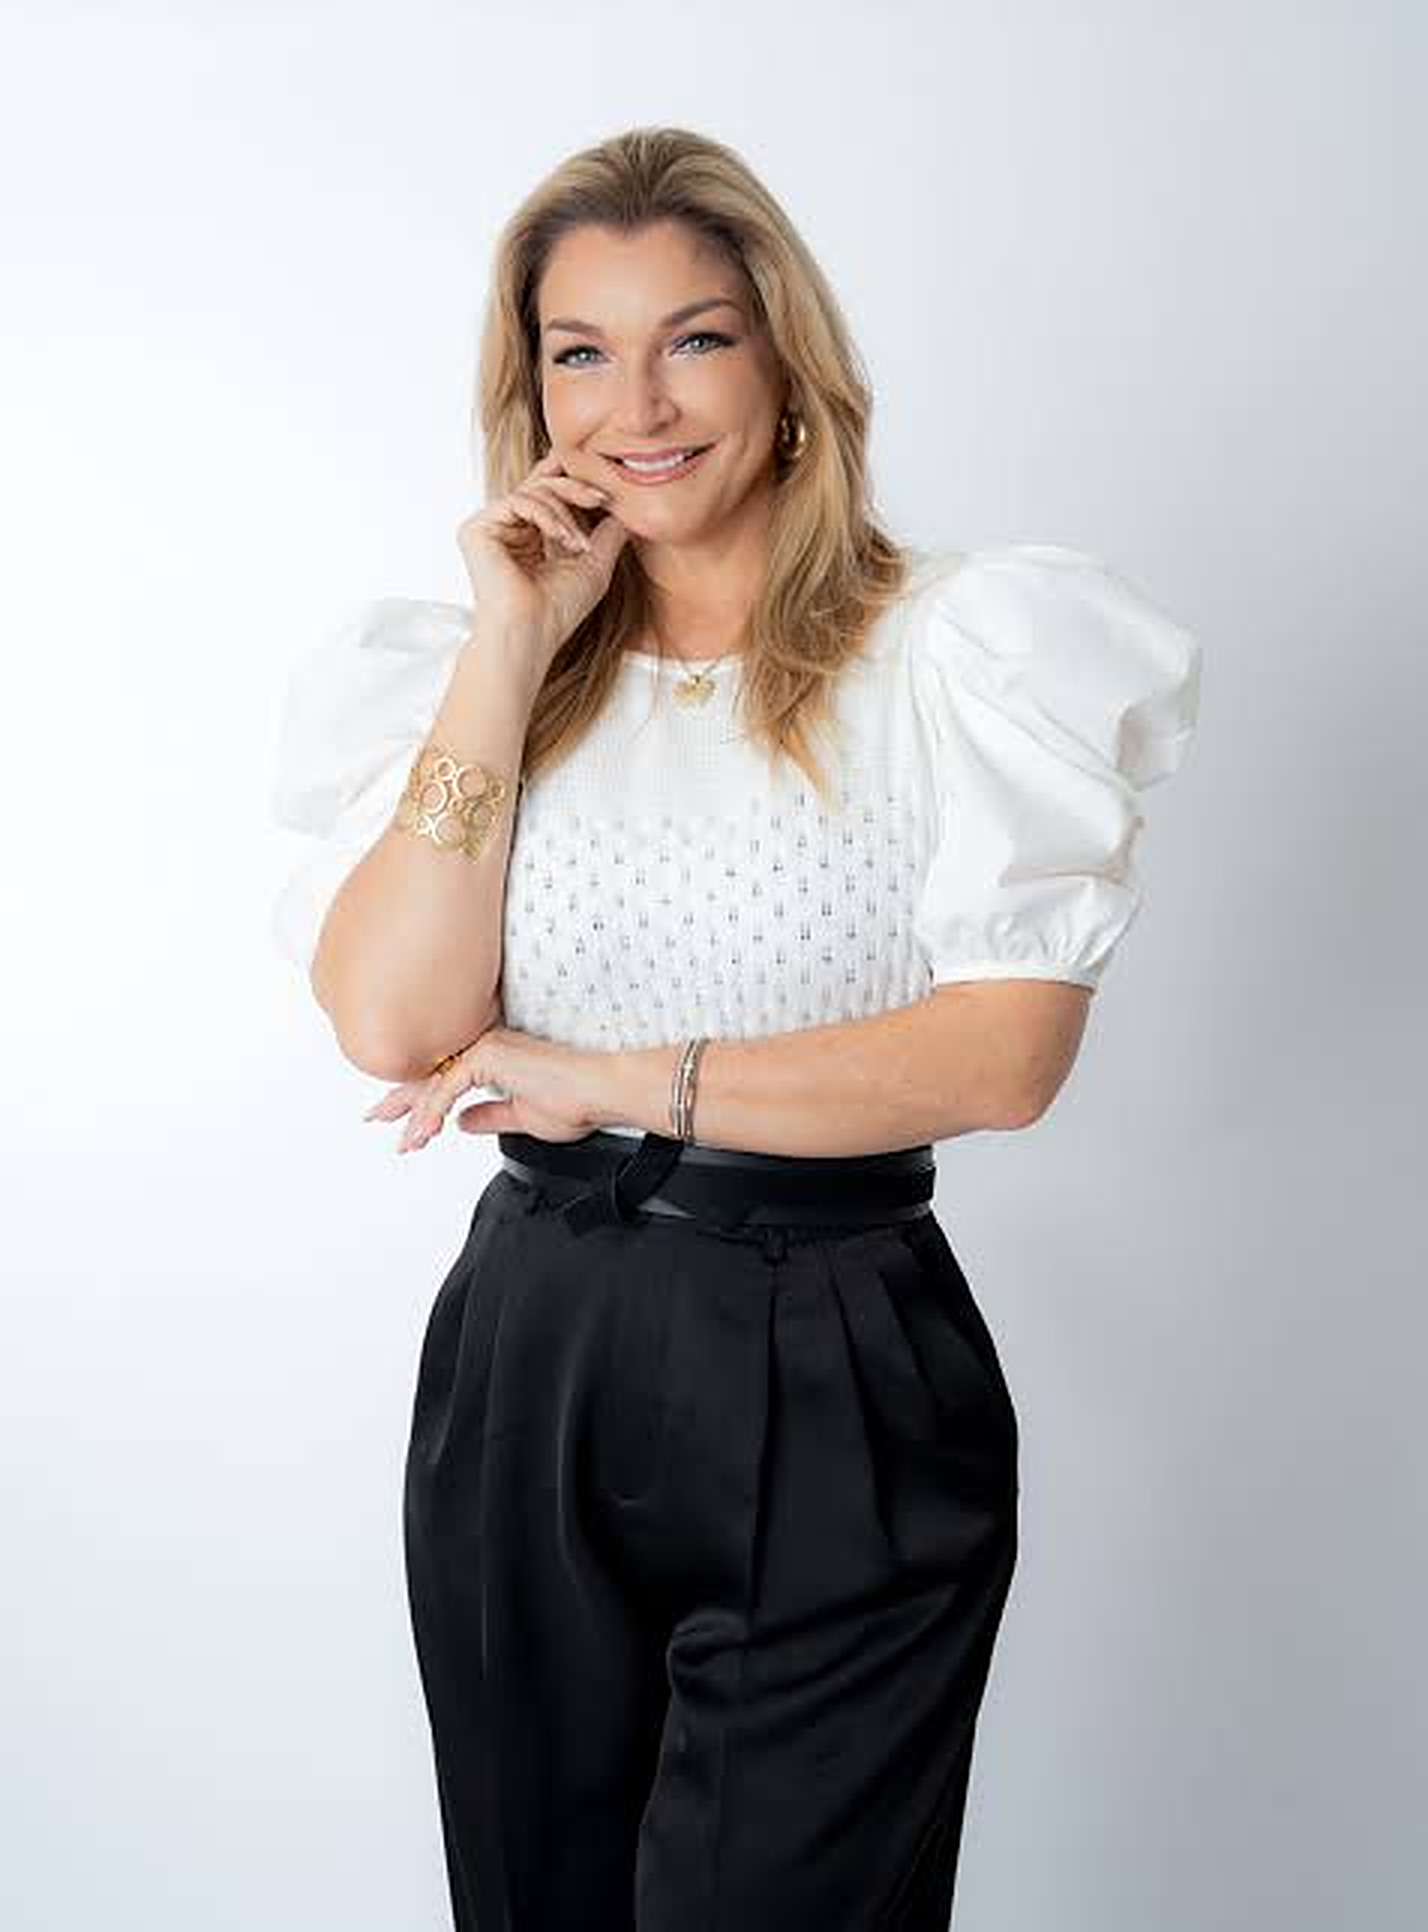
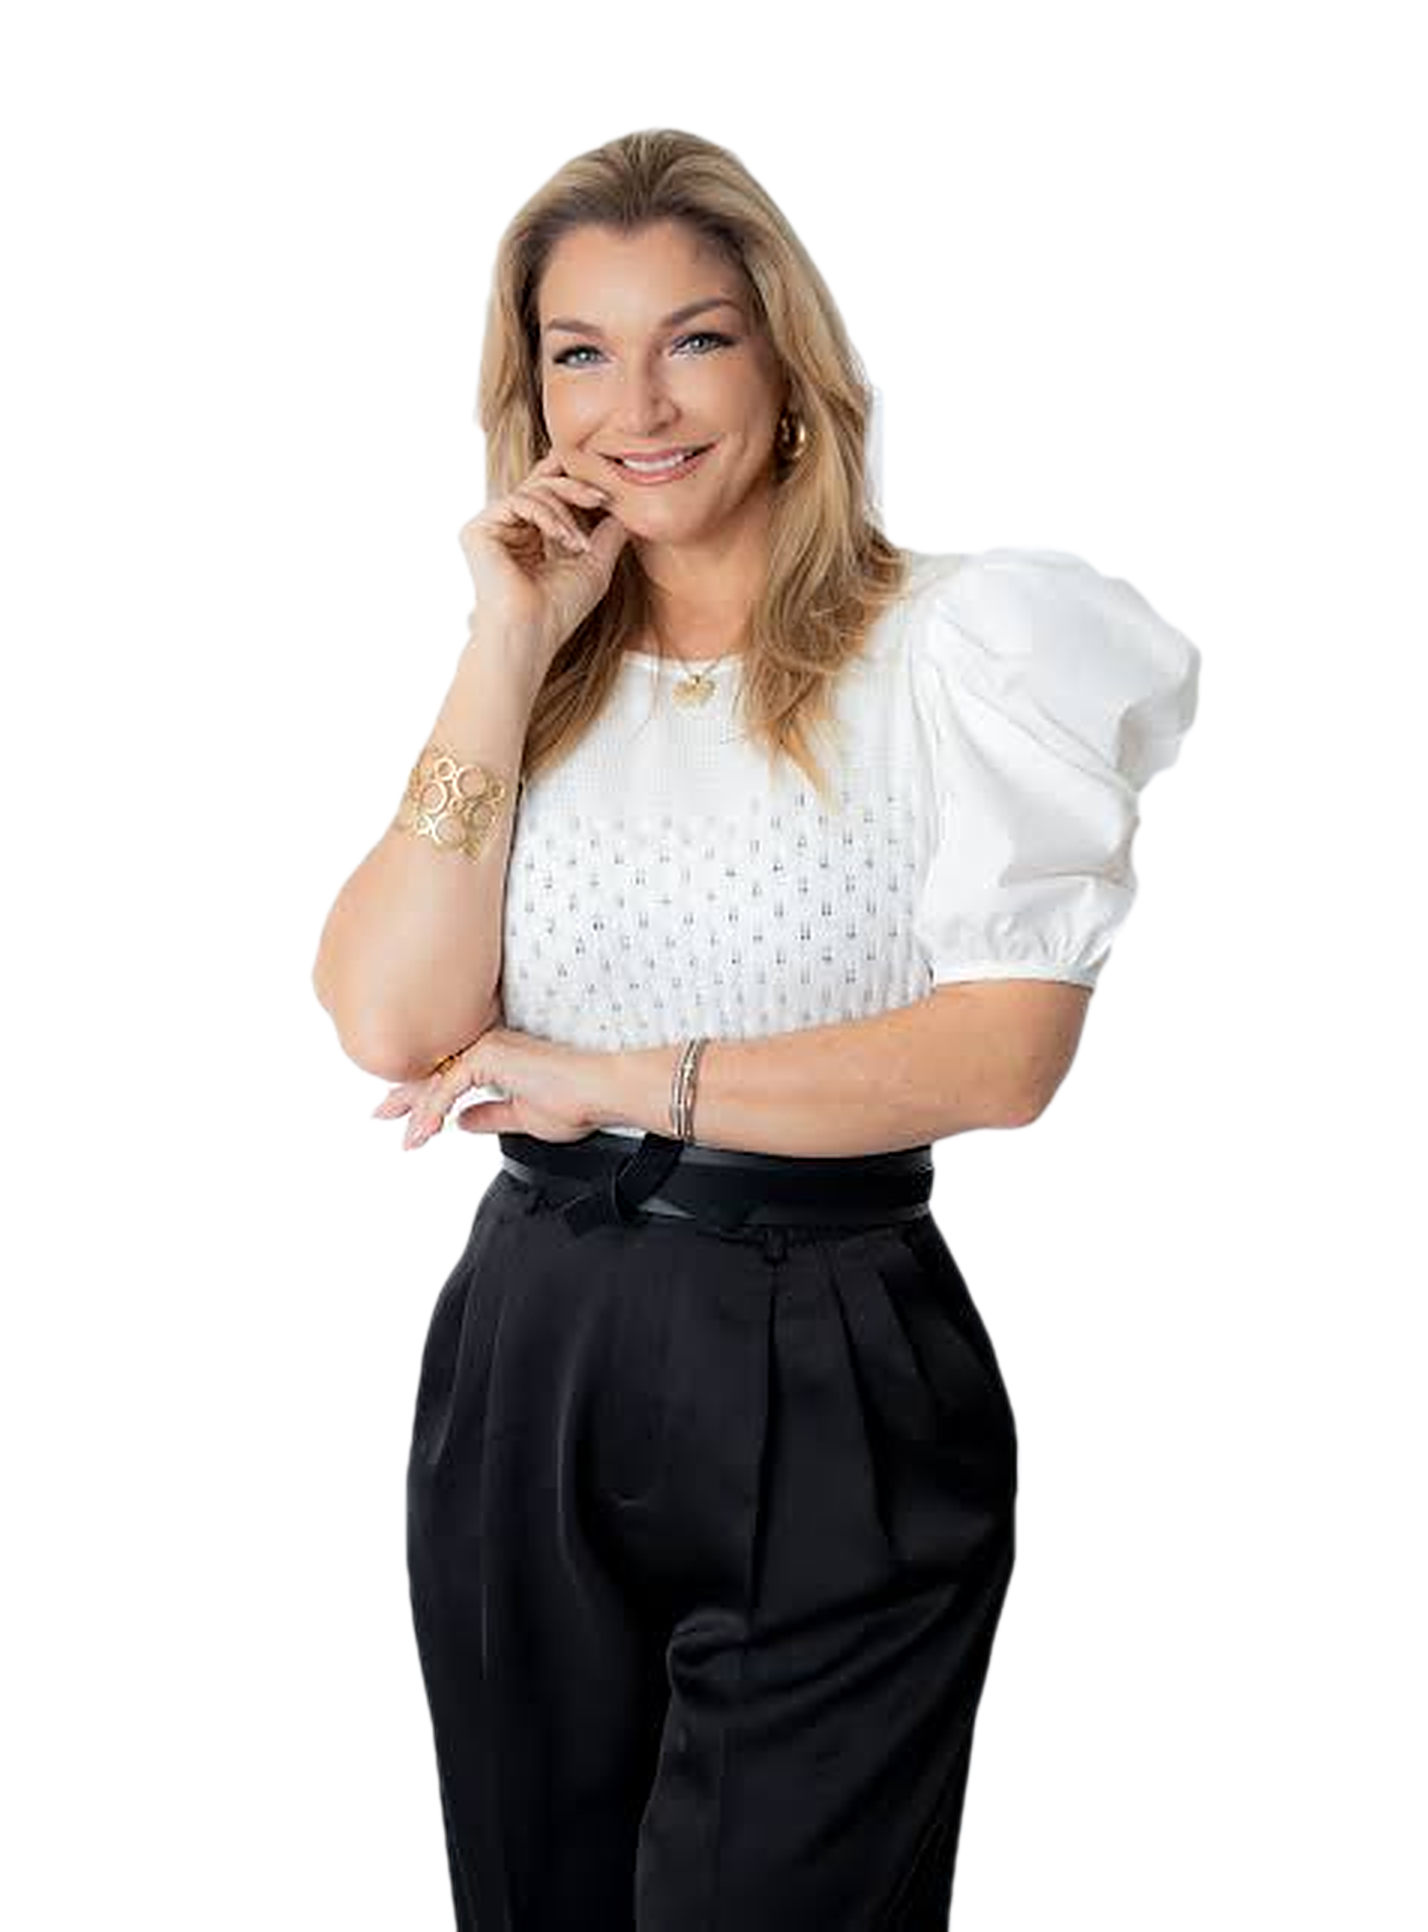
Foto de Wendy recortada, sin efecto de color, más grande y en primer plano

diff --git a/src/app/globals.css b/src/app/globals.css
@@ -333,7 +333,7 @@ button { font: inherit; color: inherit; cursor: pointer; }
   .nav-count { display: block; }
   .split { grid-template-columns: 5fr 7fr; gap: 72px; }
   .split-head { position: sticky; top: 110px; }
-  .cover-grid { grid-template-columns: 6fr 5fr; gap: 56px; align-items: center; }
+  .cover-grid { grid-template-columns: 5fr 6fr; gap: 40px; align-items: center; }
   .cde { grid-template-columns: repeat(3, 1fr); gap: 32px; }
   .cde-item { grid-template-columns: 1fr; padding-top: 24px; }
   .compare-row { grid-template-columns: 1.1fr 1fr 1.2fr; gap: 32px; }
@@ -386,9 +386,10 @@ button { font: inherit; color: inherit; cursor: pointer; }
 .btn-ghost:hover { background: var(--ww-magenta); border-color: var(--ww-magenta); }
 .badge { box-shadow: 3px 3px 0 var(--ww-yellow); }
 
-.hero-photo img {
-  -webkit-mask-image: linear-gradient(to bottom, #000 82%, transparent 100%), linear-gradient(to right, transparent 0, #000 12%, #000 88%, transparent 100%);
-  -webkit-mask-composite: source-in; mask-composite: intersect;
-  mask-image: linear-gradient(to bottom, #000 82%, transparent 100%), linear-gradient(to right, transparent 0, #000 12%, #000 88%, transparent 100%);
-}
-.hero-photo { max-width: 520px; }
+.hero-photo { max-width: 600px; }
+.hero-photo img { mix-blend-mode: normal; -webkit-mask-image: none; mask-image: none; z-index: 2; object-fit: contain; filter: drop-shadow(0 18px 28px rgba(11,11,11,.28)); }
+.hero-blob { inset: 10% -8% -2% -4%; opacity: 1; }
+.hero-dots { z-index: 0; top: 2%; right: -6%; }
+.hero-photo { max-width: 720px; }
+@media (min-width: 900px) { .cover-grid { grid-template-columns: minmax(0,1fr) minmax(0,1fr); gap: 24px; } .cover-title { font-size: clamp(3rem, 6.2vw, 6.5rem); } }
+@media (min-width: 900px) { .hero-photo img { transform: scale(1.14); transform-origin: 50% 100%; } .hero-photo { margin-top: 40px; } }
